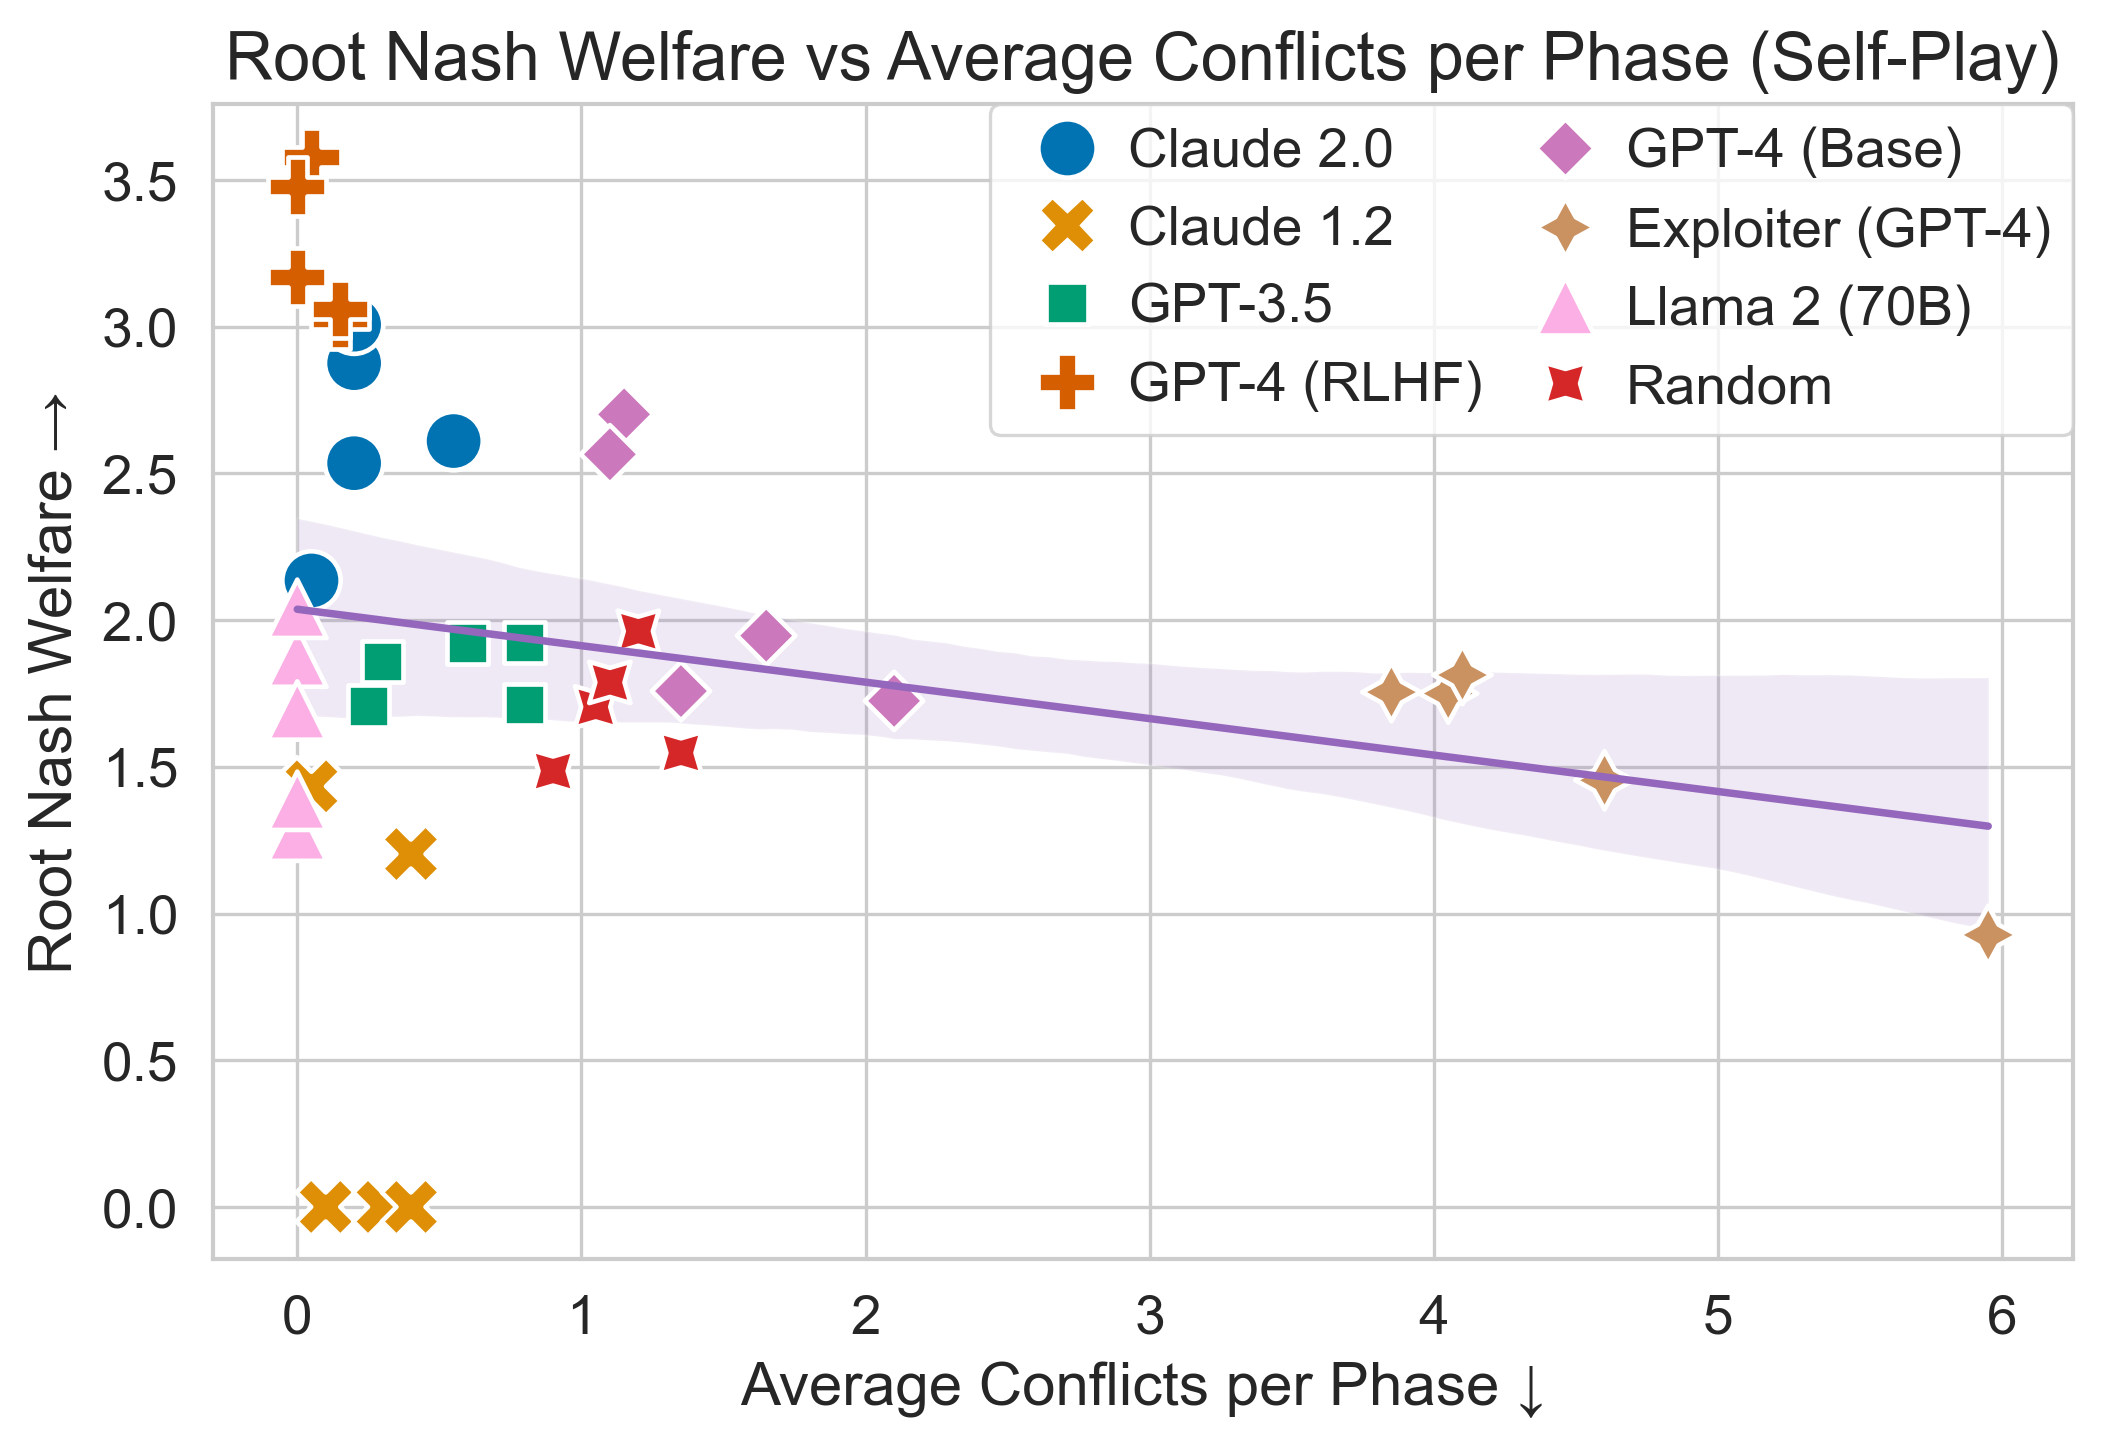
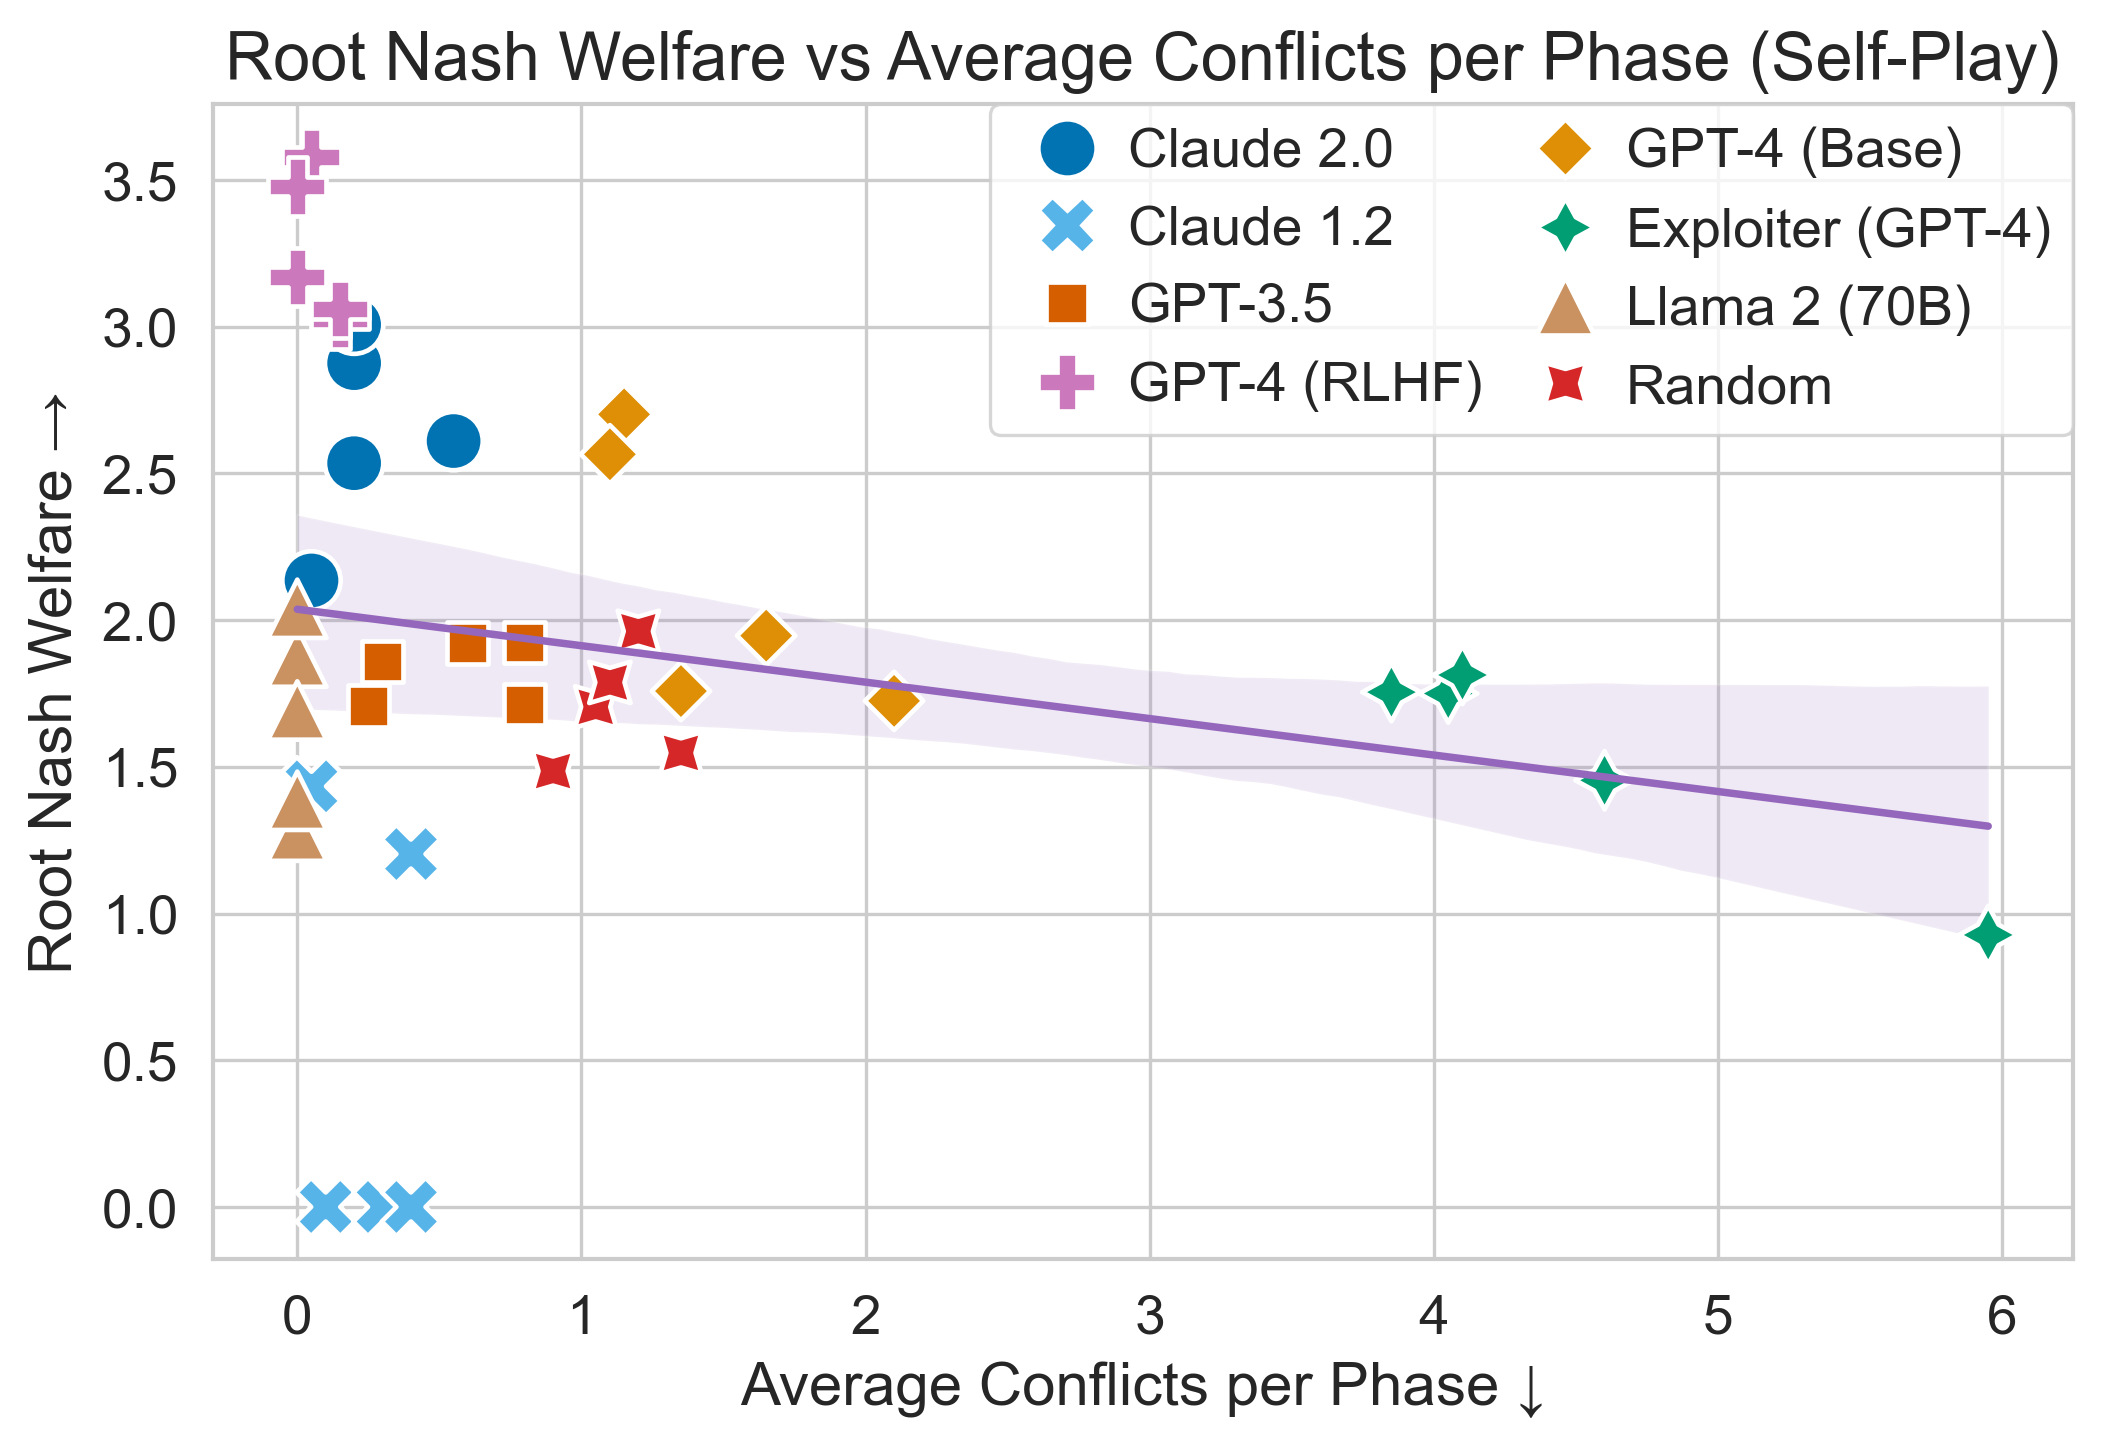
Unify color of charts

diff --git a/experiments/charts/chart_utils.py b/experiments/charts/chart_utils.py
@@ -117,30 +117,33 @@ ALL_POWER_ABBREVIATIONS = ["AUS", "ENG", "FRA", "GER", "ITA", "RUS", "TUR"]
 
 DEFAULT_COLOR_PALETTE = "colorblind"
 
+MODELS_NAMES_COLORS = [
+    ("Super Exploiter", "Exploiter\n(GPT-4)", 2),
+    ("llama-2-70b-chat", "Llama 2\n(70B)", 5),
+    ("claude-instant-1.2", "Claude\n1.2", 9),
+    ("claude-2.0", "Claude\n2.0", 0),
+    ("gpt-3.5-turbo-16k-0613", "GPT-3.5", 3),
+    ("gpt-4-base", "GPT-4\n(Base)", 1),
+    ("gpt-4-0613", "GPT-4\n(RLHF)", 4),
+]
+MODEL_ORDER = [model_name for _, model_name, _ in MODELS_NAMES_COLORS]
+MODEL_ORDER_NO_EXPLOITER = [model for model in MODEL_ORDER if "Exploit" not in model]
 MODEL_NAME_TO_DISPLAY_NAME = {
-    "Super Exploiter": "Exploiter\n(GPT-4)",
-    "llama-2-70b-chat": "Llama 2\n(70B)",
-    "claude-instant-1.2": "Claude\n1.2",
-    "claude-2.0": "Claude\n2.0",
-    "gpt-3.5-turbo-16k-0613": "GPT-3.5",
-    "gpt-4-base": "GPT-4\n(Base)",
-    "gpt-4-0613": "GPT-4\n(RLHF)",
+    model_name: display_name for model_name, display_name, _ in MODELS_NAMES_COLORS
 }
-MODEL_ORDER = list(MODEL_NAME_TO_DISPLAY_NAME.values())
-MODEL_ORDER_NO_EXPLOITER = [
-    model for model in MODEL_ORDER if model != "Exploiter\n(GPT-4)"
-]
-
-MODEL_NAME_TO_COLOR = {
-    model_name: _get_color_from_palette(index)
-    for index, model_name in enumerate(MODEL_ORDER)
-}
-MODEL_NAME_TO_COLOR["Optimal Prosocial"] = _get_color_from_palette(0)
-MODEL_NAME_TO_COLOR["Random"] = _get_color_from_palette(len(MODEL_ORDER) + 1)
-
-MODEL_COMPARISON_COLORS = [
-    MODEL_NAME_TO_COLOR[model_name] for model_name in MODEL_ORDER
-]
 
 COLOR_ALT_1 = "tab:purple"
 COLOR_ALT_2 = "tab:red"
+
+MODEL_NAME_TO_COLOR = {
+    model_name: _get_color_from_palette(index)
+    for _, model_name, index in MODELS_NAMES_COLORS
+}
+MODEL_NAME_TO_COLOR.update(
+    {
+        model_name.replace("\n", " "): _get_color_from_palette(index)
+        for _, model_name, index in MODELS_NAMES_COLORS
+    }
+)
+MODEL_NAME_TO_COLOR["Optimal Prosocial"] = COLOR_ALT_1
+MODEL_NAME_TO_COLOR["Random"] = COLOR_ALT_2

diff --git a/experiments/charts/super_exploitation.py b/experiments/charts/super_exploitation.py
@@ -12,7 +12,7 @@ from chart_utils import (
     ALL_POWER_ABBREVIATIONS,
     COLOR_ALT_1,
     COLOR_ALT_2,
-    MODEL_COMPARISON_COLORS,
+    MODEL_NAME_TO_COLOR,
     MODEL_NAME_TO_DISPLAY_NAME,
     MODEL_ORDER_NO_EXPLOITER,
     initialize_plot_bar,
@@ -206,7 +206,7 @@ def main() -> None:
                 order=MODEL_ORDER_NO_EXPLOITER,
                 capsize=0.2,
                 hue=x_label,
-                palette=MODEL_COMPARISON_COLORS,
+                palette=MODEL_NAME_TO_COLOR,
                 # errwidth=2,
             )
 
@@ -333,7 +333,7 @@ def main() -> None:
             x="agent_model",
             y="exploitability",
             order=MODEL_ORDER_NO_EXPLOITER,
-            palette=MODEL_COMPARISON_COLORS,
+            palette=MODEL_NAME_TO_COLOR,
         )
         plt.xlabel("Agent Model")
         plt.ylabel("Exploitability ←")
@@ -372,7 +372,7 @@ def main() -> None:
             y="benchmark/nash_social_welfare_global",
             hue=grouping,
             style=grouping,
-            palette=MODEL_COMPARISON_COLORS + [COLOR_ALT_2],
+            palette=MODEL_NAME_TO_COLOR,
         )
         plt.xlabel("Average Conflicts per Phase ↓")
         plt.ylabel("Root Nash Welfare (Global) →")

diff --git a/experiments/charts/same_policy.py b/experiments/charts/same_policy.py
@@ -12,7 +12,7 @@ from chart_utils import (
     ALL_POWER_ABBREVIATIONS,
     COLOR_ALT_1,
     COLOR_ALT_2,
-    MODEL_COMPARISON_COLORS,
+    MODEL_NAME_TO_COLOR,
     MODEL_NAME_TO_DISPLAY_NAME,
     MODEL_ORDER,
     initialize_plot_bar,
@@ -166,7 +166,7 @@ def main() -> None:
             order=MODEL_ORDER,
             capsize=0.2,
             hue=x_label,
-            palette=MODEL_COMPARISON_COLORS,
+            palette=MODEL_NAME_TO_COLOR,
             # errwidth=2,
         )
 
@@ -248,7 +248,7 @@ def main() -> None:
             y="benchmark/nash_social_welfare_global",
             hue=grouping,
             style=grouping,
-            palette=MODEL_COMPARISON_COLORS + [COLOR_ALT_2],
+            palette=MODEL_NAME_TO_COLOR,
         )
         plt.xlabel(f"Average {x_label} per Phase ↓")
         plt.ylabel("Root Nash Welfare →")
